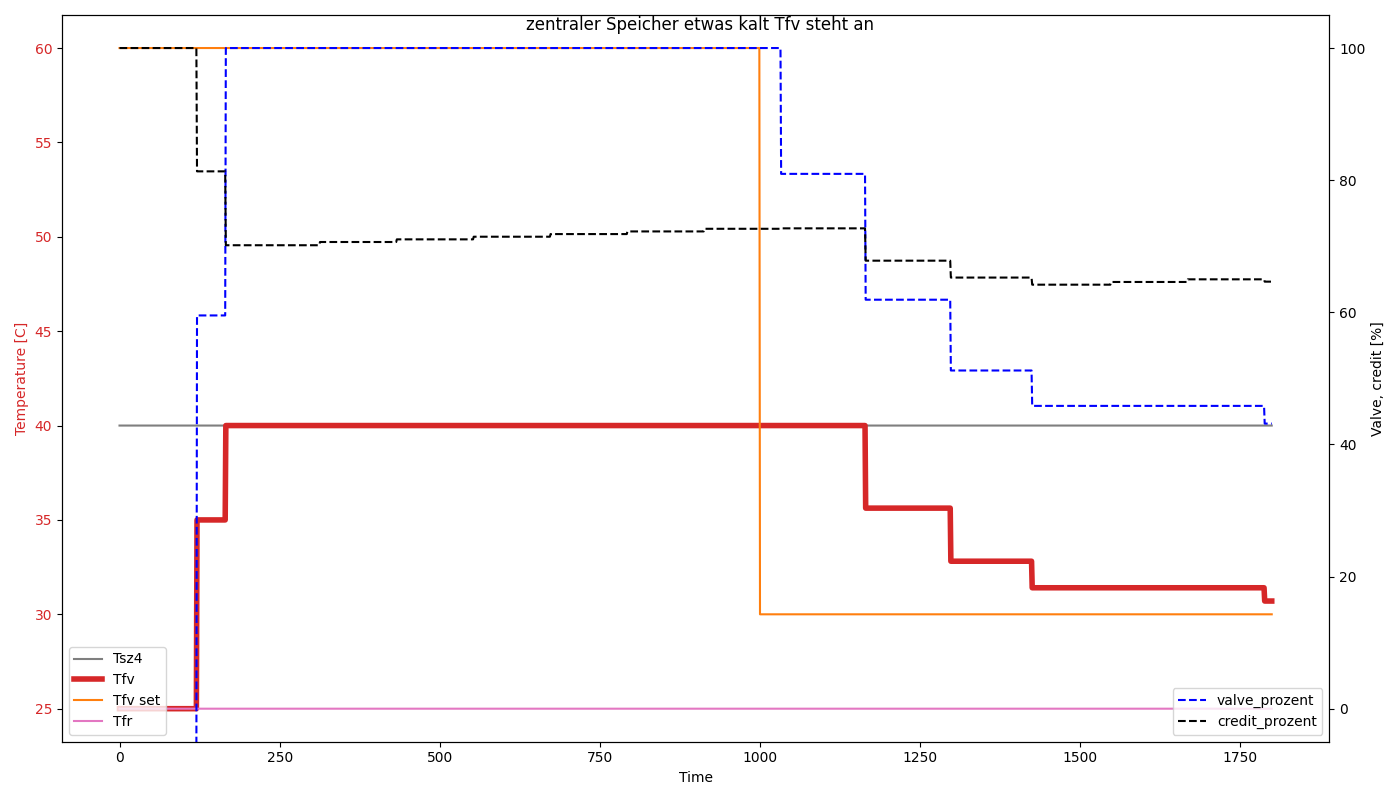
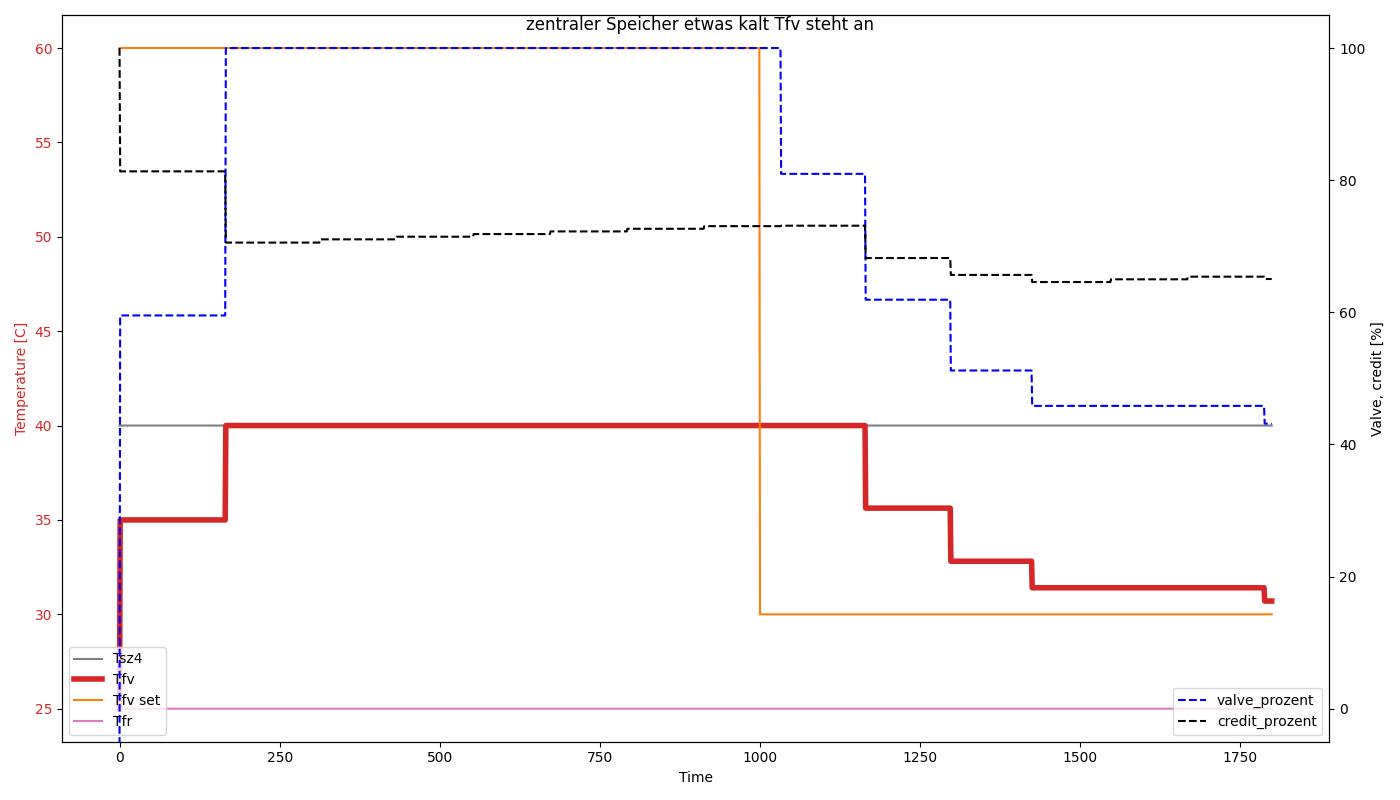
Fix: zentral/controller_mischventil_test.py

diff --git a/software/software-zentral/zentral/controller_mischventil.py b/software/software-zentral/zentral/controller_mischventil.py
@@ -254,6 +254,12 @@ class ControllerMischventil(ControllerMischventilSimple):
         # zusaetzlich warten bis Mischventil fertig bewegt hat
         self.next_control.add(abs(stellwert_aenderung_V) / self._MOTOR_GESCHWINDIGKEIT_V_PRO_S)
 
+    def _pumpe_und_stabil(self, ctx: "Context", now_s: float) -> bool:
+        """
+        Note: The Mock will override this method!
+        """
+        return ctx.hsm_zentral.controller_master.handler_pumpe.pumpe_anlaufzeit_mischventil.pumpe_und_stabil(now_s=now_s)
+
     def process(self, ctx: "Context", now_s: float) -> None:
         scenario = SCENARIOS.find(ScenarioZentralSolltemperatur)
         if scenario is not None:
@@ -272,7 +278,7 @@ class ControllerMischventil(ControllerMischventilSimple):
         # )
         # TODO(HandlerPumpe)
         # if not self.pumpe_anlaufzeit_mischventil.pumpe_und_stabil(now_s=now_s):
-        if not ctx.hsm_zentral.controller_master.handler_pumpe.pumpe_anlaufzeit_mischventil.pumpe_und_stabil(now_s=now_s):
+        if not self._pumpe_und_stabil(ctx=ctx, now_s=now_s):
             return
 
         if self.next_control.wait(now_s=now_s):

diff --git a/software/software-zentral/zentral/util_controller_verbrauch_schaltschwelle_test.py b/software/software-zentral/zentral/util_controller_verbrauch_schaltschwelle_test.py
@@ -21,17 +21,16 @@ class HaeuserLadungFactory:
     given_anhebung_prozent: float
     factory_raw: Callable[[], HaeuserLadung]
 
+    def get_haeuser_ladung(self) -> HaeuserLadung:
+        haeuser_ladung = self.factory_raw()
 
-def get_haeuser_ladung(self) -> HaeuserLadung:
-    haeuser_ladung = self.factory_raw()
-
-    # Überprüfen, of vavles_open eingeschwungen
-    evaluate = Evaluate(
-        anhebung_prozent=self.given_anhebung_prozent,
-        haeuser_ladung=haeuser_ladung,
-    )
-    assert haeuser_ladung.valve_open_count == evaluate.valve_open_count, "valves_open NICHT eingeschwungen!"
-    return haeuser_ladung
+        # Überprüfen, of vavles_open eingeschwungen
+        evaluate = Evaluate(
+            anhebung_prozent=self.given_anhebung_prozent,
+            haeuser_ladung=haeuser_ladung,
+        )
+        assert haeuser_ladung.valve_open_count == evaluate.valve_open_count, "valves_open NICHT eingeschwungen!"
+        return haeuser_ladung
 
 
 def _factory_2_30() -> HaeuserLadung:

diff --git a/software/software-zentral/zentral/controller_mischventil_test.py b/software/software-zentral/zentral/controller_mischventil_test.py
@@ -135,11 +135,10 @@ async def run_scenario(testparam: Ttestparam, do_show_plot: bool) -> None:
         await ctx.init()
         ctx.modbus_communication.pcbs_dezentral_heizzentrale.set_mock(dict_temperatures_C=testparam.dict_temperatures_C)
 
-        # TODO: Dieser Mock funktioniert NICHT mehr!
         class ControllerMischventilTest(ControllerMischventil):
             _FAKTOR_STABILITAET_1 = testparam.CONTROLLER_FAKTOR_STABILITAET_1
 
-            def get_pumpe_ein(self, ctx: "Context", now_s: float) -> bool:
+            def _pumpe_und_stabil(self, ctx: "Context", now_s: float) -> bool:
                 return True
 
         ctl = ControllerMischventilTest(now_s=0.0)
